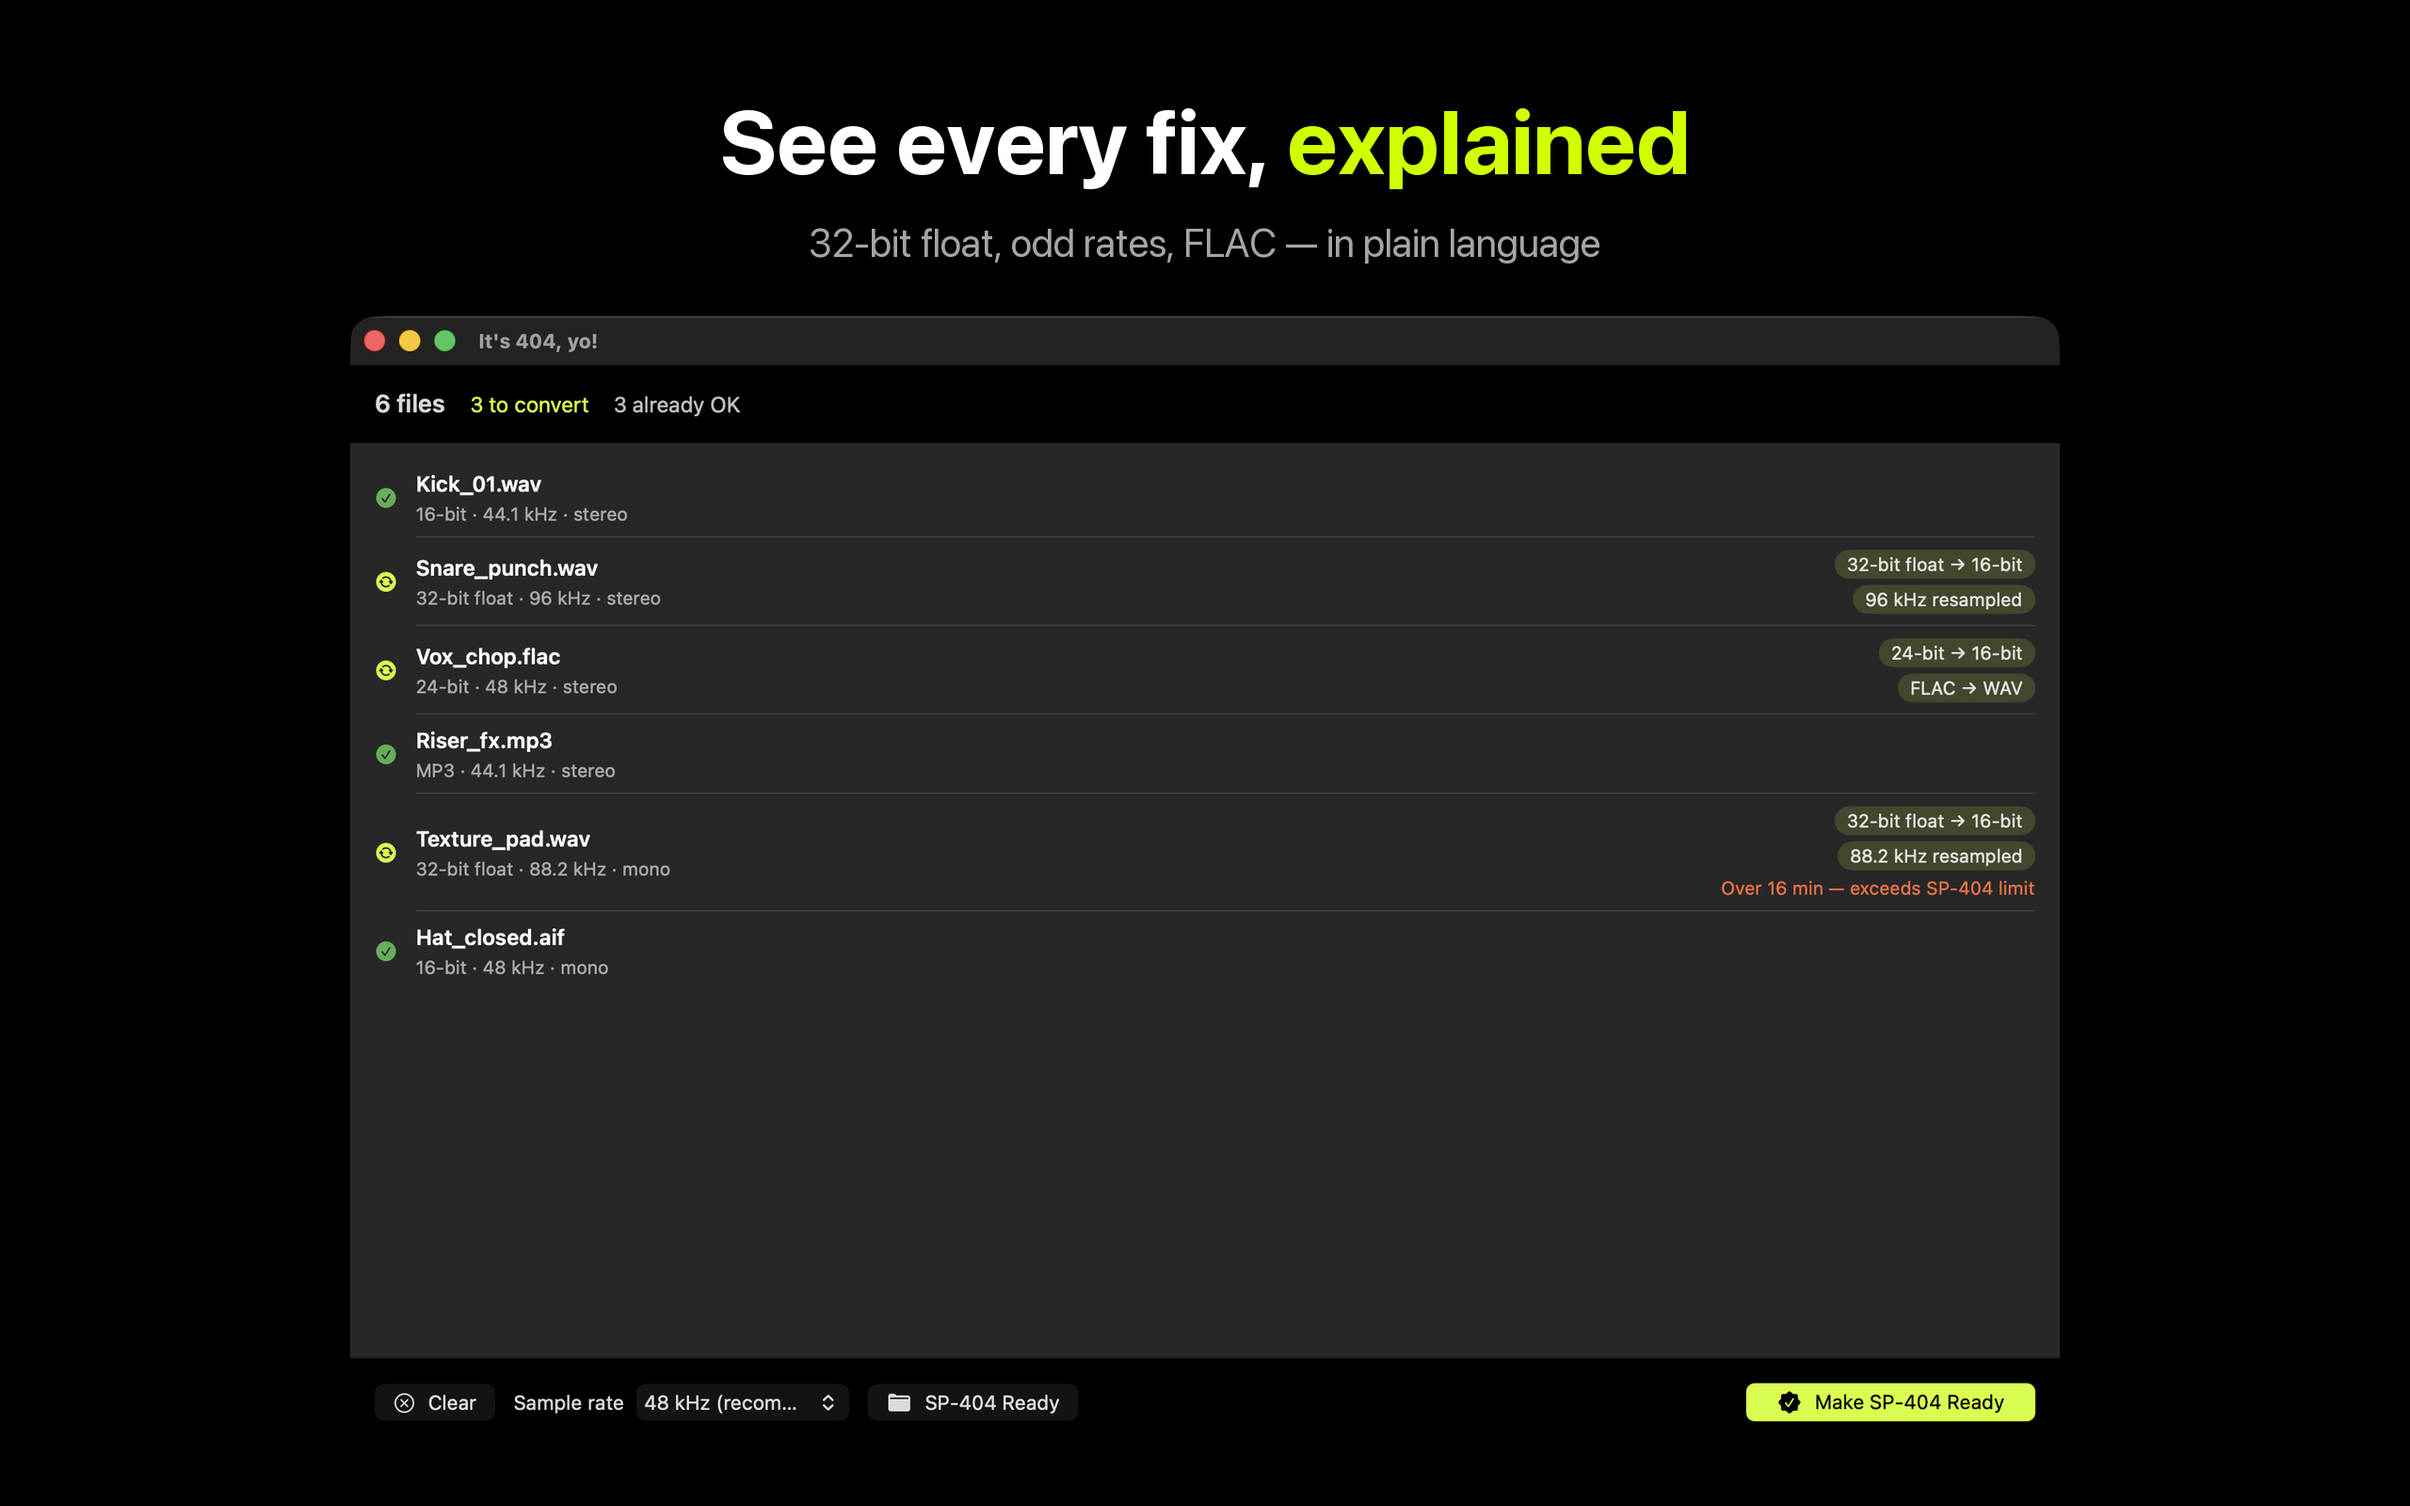
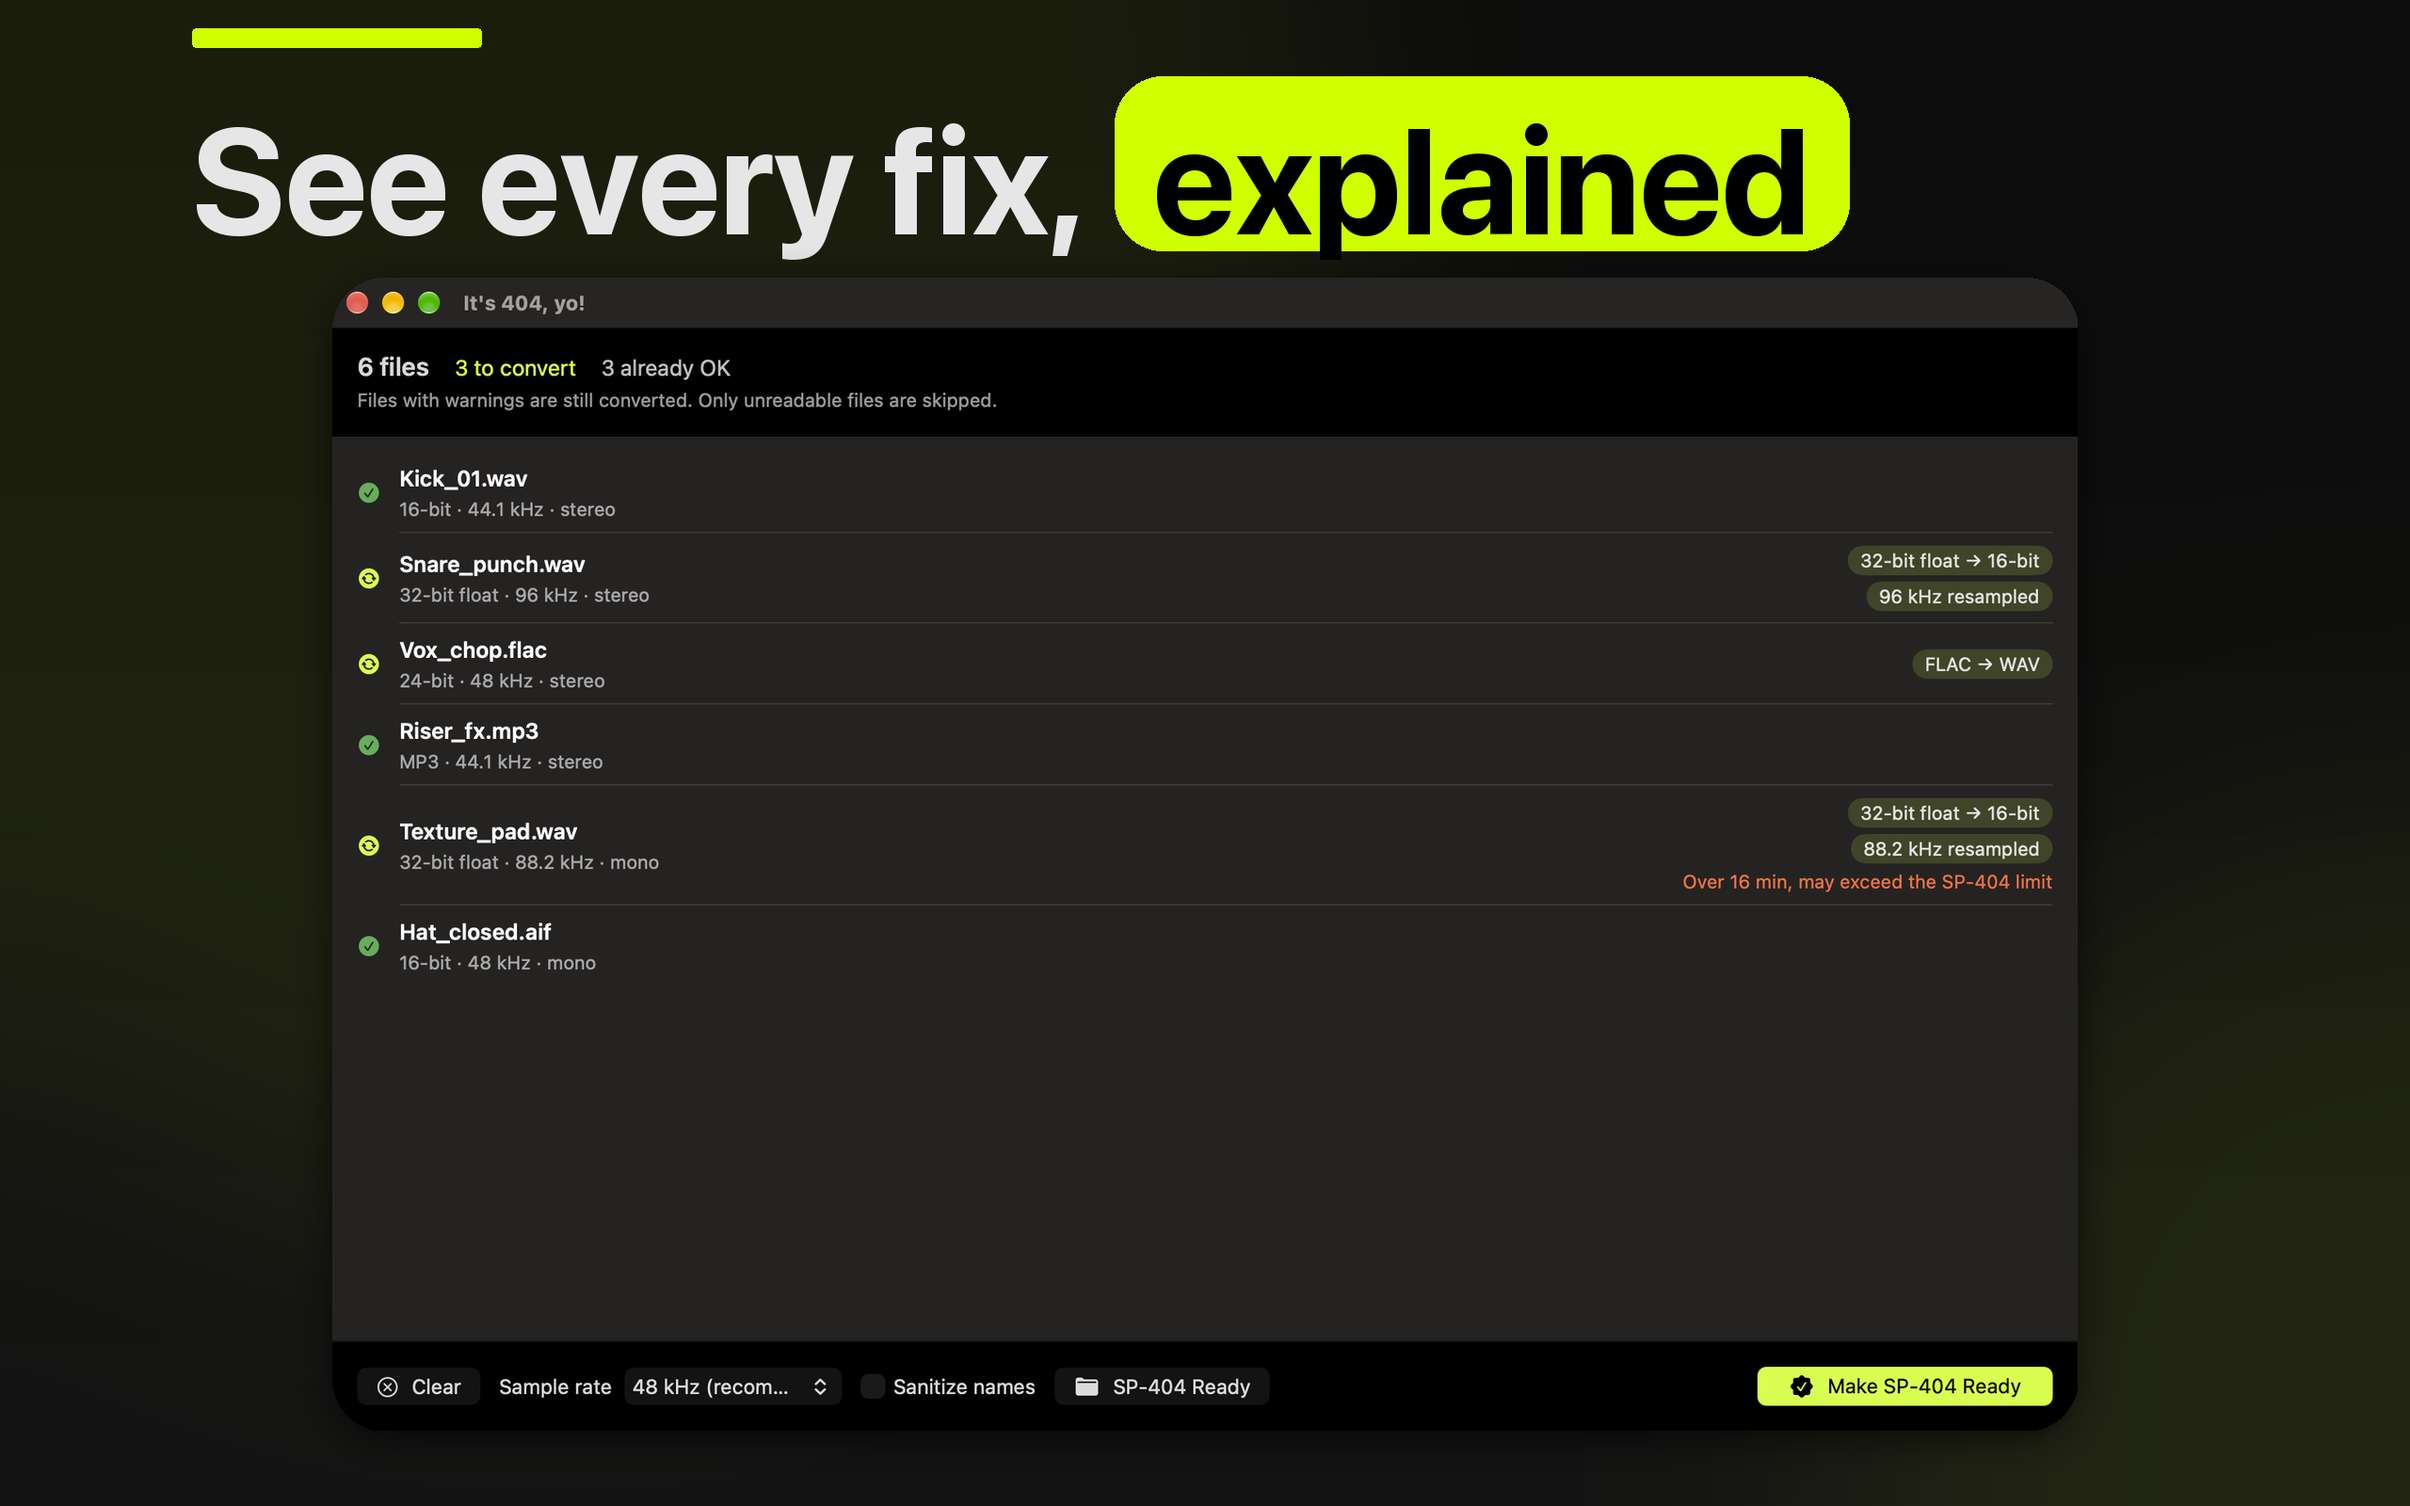
Screenshots show what the app shows: demo data through the classifier, re-captured (#65)
The demo data's labels were hand-written and had drifted from the app. A FLAC
row read "24-bit → 16-bit", which the classifier never says for a FLAC file
(it gives only "FLAC → WAV"), and the 16-minute warning used an older wording
with an em-dash. The same screen is on the App Store, the site's tour and the
README hero.

AppState.demoItems() now describes each demo file by its decoded format only
and takes status and warnings from AudioFormatInspector, so a screenshot can
only show labels the app produces. The "done" report is derived from the items
too, rather than three hand-typed counts. DemoDataTests pins this: every demo
label equals the inspector's output, the FLAC row and the long-file warning are
the corrected ones, and the demo still covers a copied, a converted and a
warned row.

All six scenes are re-captured, including the empty drop zone, whose outline
changed in 1.2.0. The App Store posters are recomposed with the design hub's
appstore_screenshots.py from a manifest in this repo. The README hero and the
site's tour use the new analysis captures.

This also settles the screenshot part of #67: the same six shots were kept three
times. raw/ stays as the single source, the posters stay as the store output,
and plain/ plus make-overlays.py (superseded by the hub tool, and carrying
em-dashes in its captions) are removed. docs/screenshots/README.md says which is
which.

New posters reach the store only with the next version: the default product page
[…]

diff --git a/Sources/Its404Yo/Models/AppState.swift b/Sources/Its404Yo/Models/AppState.swift
@@ -201,36 +201,52 @@ final class AppState: ObservableObject {
     /// Populate the list with representative mock data for screenshots/demos.
     /// Triggered by the `-DemoMode` launch argument; never used in normal operation.
     func seedDemoData() {
-        func item(_ name: String, _ props: AudioProperties, _ status: FileStatus, _ warnings: [String] = []) -> AudioFileItem {
-            AudioFileItem(
-                url: URL(fileURLWithPath: "/Samples/DemoPack/\(name)"),
-                relativePath: "DemoPack/\(name)",
-                properties: props, status: status, warnings: warnings
-            )
-        }
+        items = Self.demoItems()
+        outputDirectory = URL(fileURLWithPath: "/Users/jarl/Desktop/SP-404 Ready")
+    }
+
+    /// The report a real conversion of `items` would produce (no renames, nothing failing).
+    nonisolated static func demoReport(for items: [AudioFileItem], outputDirectory: URL) -> ConversionReport {
+        ConversionReport(
+            converted: items.filter(\.willConvert).count,
+            copied: items.filter { $0.status == .compatible }.count,
+            failed: items.filter { if case .unreadable = $0.status { return true }; return false }.count,
+            warnings: items.filter { !$0.warnings.isEmpty }.count,
+            outputDirectory: outputDirectory
+        )
+    }
+
+    /// The demo pack used for screenshots. Each file is described by its decoded format only; its
+    /// status and warnings come from the real `AudioFormatInspector`, so every label in a screenshot
+    /// is one the app actually produces for that file (#65). Hand-written labels drifted before.
+    nonisolated static func demoItems() -> [AudioFileItem] {
         func p(_ sr: Double, _ ch: UInt32, _ bits: UInt32, float: Bool, pcm: Bool, mp3: Bool, _ dur: Double) -> AudioProperties {
             AudioProperties(sampleRate: sr, channels: ch, bitsPerChannel: bits,
                             isFloat: float, isLinearPCM: pcm, isMP3: mp3, durationSeconds: dur)
         }
-
-        items = [
-            item("Kick_01.wav",     p(44100, 2, 16, float: false, pcm: true,  mp3: false, 1.1), .compatible),
-            item("Snare_punch.wav", p(96000, 2, 32, float: true,  pcm: true,  mp3: false, 0.8),
-                 .needsConversion(["32-bit float → 16-bit", "96 kHz resampled"])),
-            item("Vox_chop.flac",   p(48000, 2, 24, float: false, pcm: false, mp3: false, 2.4),
-                 .needsConversion(["24-bit → 16-bit", "FLAC → WAV"])),
-            item("Riser_fx.mp3",    p(44100, 2,  0, float: false, pcm: false, mp3: true,  3.0), .compatible),
-            item("Texture_pad.wav", p(88200, 1, 32, float: true,  pcm: true,  mp3: false, 17 * 60 + 4),
-                 .needsConversion(["32-bit float → 16-bit", "88.2 kHz resampled"]),
-                 ["Over 16 min, may exceed the SP-404 limit"]),
-            item("Hat_closed.aif",  p(48000, 1, 16, float: false, pcm: true,  mp3: false, 0.3), .compatible)
+        let files: [(String, AudioProperties)] = [
+            ("Kick_01.wav",     p(44100, 2, 16, float: false, pcm: true,  mp3: false, 1.1)),
+            ("Snare_punch.wav", p(96000, 2, 32, float: true,  pcm: true,  mp3: false, 0.8)),
+            ("Vox_chop.flac",   p(48000, 2, 24, float: false, pcm: false, mp3: false, 2.4)),
+            ("Riser_fx.mp3",    p(44100, 2,  0, float: false, pcm: false, mp3: true,  3.0)),
+            ("Texture_pad.wav", p(88200, 1, 32, float: true,  pcm: true,  mp3: false, 17 * 60 + 4)),
+            ("Hat_closed.aif",  p(48000, 1, 16, float: false, pcm: true,  mp3: false, 0.3)),
         ]
-        outputDirectory = URL(fileURLWithPath: "/Users/jarl/Desktop/SP-404 Ready")
+        return files.map { name, props in
+            let url = URL(fileURLWithPath: "/Samples/DemoPack/\(name)")
+            return AudioFileItem(
+                url: url,
+                relativePath: "DemoPack/\(name)",
+                properties: props,
+                status: AudioFormatInspector.classify(props, ext: url.pathExtension),
+                warnings: AudioFormatInspector.warnings(for: props)
+            )
+        }
     }
 
     /// Seed a finished-conversion report on top of the demo data (for the "done" screenshot).
     func seedDemoReport() {
         let dir = outputDirectory ?? URL(fileURLWithPath: "/Users/jarl/Desktop/SP-404 Ready")
-        lastReport = ConversionReport(converted: 3, copied: 3, failed: 0, warnings: 1, outputDirectory: dir)
+        lastReport = Self.demoReport(for: items, outputDirectory: dir)
     }
 }

diff --git a/Tests/Its404YoTests/DemoDataTests.swift b/Tests/Its404YoTests/DemoDataTests.swift
@@ -1,0 +1,39 @@
+import XCTest
+@testable import Its404Yo
+
+/// Screenshots come from the demo data, so the demo must show only what the app really shows (#65).
+final class DemoDataTests: XCTestCase {
+
+    func testEveryDemoLabelIsWhatTheInspectorProduces() {
+        for item in AppState.demoItems() {
+            guard let props = item.properties else { return XCTFail("\(item.fileName) has no format") }
+            XCTAssertEqual(item.status, AudioFormatInspector.classify(props, ext: item.url.pathExtension), item.fileName)
+            XCTAssertEqual(item.warnings, AudioFormatInspector.warnings(for: props), item.fileName)
+        }
+    }
+
+    /// The two labels the old hand-written demo got wrong.
+    func testFlacRowAndLongFileWarning() {
+        let items = Dictionary(uniqueKeysWithValues: AppState.demoItems().map { ($0.fileName, $0) })
+        XCTAssertEqual(items["Vox_chop.flac"]?.status, .needsConversion(["FLAC → WAV"]))
+        let pad = items["Texture_pad.wav"]?.warnings ?? []
+        XCTAssertEqual(pad, ["Over 16 min, may exceed the SP-404 limit"])
+        XCTAssertFalse(pad.joined().contains("—"))
+    }
+
+    /// The demo should show every kind of row: copied, converted, and one with a warning.
+    func testDemoCoversEachRowKind() {
+        let items = AppState.demoItems()
+        XCTAssertTrue(items.contains { $0.status == .compatible })
+        XCTAssertTrue(items.contains { $0.willConvert })
+        XCTAssertTrue(items.contains { !$0.warnings.isEmpty })
+    }
+
+    func testDemoReportMatchesTheItems() {
+        let report = AppState.demoReport(for: AppState.demoItems(), outputDirectory: URL(fileURLWithPath: "/tmp"))
+        XCTAssertEqual(report.converted, 3)
+        XCTAssertEqual(report.copied, 3)
+        XCTAssertEqual(report.failed, 0)
+        XCTAssertEqual(report.warnings, 1)
+    }
+}

diff --git a/README.md b/README.md
@@ -16,8 +16,8 @@ SP-404 sample pack converter
 
 <p>
   <picture>
-    <source media="(prefers-color-scheme: dark)" srcset="docs/screenshots/plain/appstore-02-analysis-dark.png">
-    <img src="docs/screenshots/plain/appstore-05-analysis-light.png" alt="It's 404, yo! with a sample pack of six files: three already OK, and three to convert, each with its reason, such as 32-bit float → 16-bit, 96 kHz resampled and FLAC → WAV." width="640">
+    <source media="(prefers-color-scheme: dark)" srcset="docs/screenshots/raw/raw-analysis-dark.png">
+    <img src="docs/screenshots/raw/raw-analysis-light.png" alt="It's 404, yo! with a sample pack of six files: three already OK, and three to convert, each with its reason, such as 32-bit float → 16-bit, 96 kHz resampled and FLAC → WAV." width="640">
   </picture>
 </p>
 

diff --git a/docs/screenshots/README.md b/docs/screenshots/README.md
@@ -1,0 +1,13 @@
+# Screenshots
+
+One source, one output:
+
+- **`raw/`** holds the window captures, made from the app's demo data (see "Demo mode and screenshots"
+  in `docs/ARCHITECTURE.md`). The demo data goes through the real `AudioFormatInspector`, so every label
+  in a capture is one the app produces for that file. The README hero and the site's tour use these.
+- **`appstore-*.png`** are the App Store posters, 2560×1600, composed from `raw/` by the design hub's
+  `tools/appstore_screenshots.py batch docs/screenshots/manifest.json`. To change a caption, edit
+  `manifest.json` and re-run. There's no need to re-capture.
+
+Captions are public copy: no em-dashes, no hype. New posters reach the store only with a new version,
+because the default product page can't change on an approved version.
